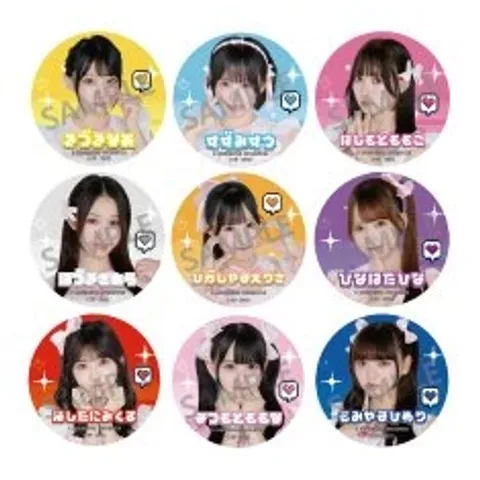
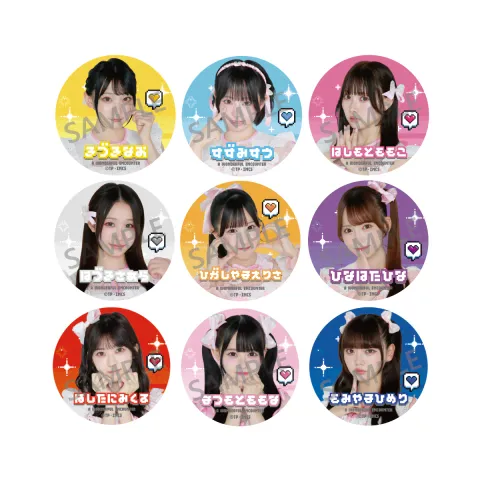
A Wonderful Encounter のステッカーと缶バッジの画像を差し替え

diff --git a/app/features/products/2025/2025-09-07_ステッカー「A Wonderful Encounter」.ts b/app/features/products/2025/2025-09-07_ステッカー「A Wonderful Encounter」.ts
@@ -9,8 +9,8 @@ export const AWonderfulEncounter_にゃでしこステッカー: RandomGoods = {
   category: "ステッカー",
   tradeText: TradeTextType.NameOnly,
   url: "/takaneko/goods/2025/2025-09-07_ランダムにゃでしこドットステッカー.webp",
-  width: 323,
-  height: 183,
+  width: 1200,
+  height: 1200,
   lineup: [
     { id: 1, name: "ルニャ・コーチ", description: "" },
     { id: 2, name: "すうにゃろう", description: "" },
@@ -25,15 +25,15 @@ export const AWonderfulEncounter_にゃでしこステッカー: RandomGoods = {
   ],
   withFrame: true,
   positions: [
-    { id: 1, x: 16, y: 16, width: 53, height: 68 },
-    { id: 2, x: 75, y: 16, width: 53, height: 68 },
-    { id: 3, x: 135, y: 16, width: 53, height: 68 },
-    { id: 4, x: 194, y: 16, width: 53, height: 68 },
-    { id: 5, x: 254, y: 16, width: 53, height: 68 },
-    { id: 6, x: 16, y: 100, width: 53, height: 68 },
-    { id: 7, x: 75, y: 100, width: 53, height: 68 },
-    { id: 8, x: 135, y: 100, width: 53, height: 68 },
-    { id: 9, x: 194, y: 100, width: 53, height: 68 },
-    { id: 10, x: 254, y: 100, width: 53, height: 68 },
+    { id: 1, x: 176, y: 118, width: 257, height: 297 },
+    { id: 2, x: 469, y: 118, width: 257, height: 297 },
+    { id: 3, x: 775, y: 118, width: 257, height: 297 },
+    { id: 4, x: 35, y: 462, width: 257, height: 297 },
+    { id: 5, x: 324, y: 462, width: 257, height: 297 },
+    { id: 6, x: 613, y: 462, width: 257, height: 297 },
+    { id: 7, x: 902, y: 462, width: 257, height: 297 },
+    { id: 8, x: 176, y: 803, width: 257, height: 297 },
+    { id: 9, x: 469, y: 803, width: 257, height: 297 },
+    { id: 10, x: 775, y: 803, width: 257, height: 297 },
   ],
 };

diff --git a/app/features/products/2025/2025-09-07_缶バッジ「A Wonderful Encounter」.ts b/app/features/products/2025/2025-09-07_缶バッジ「A Wonderful Encounter」.ts
@@ -9,8 +9,8 @@ export const AWonderfulEncounter_缶バッジ: RandomGoods = {
   category: "缶バッジ",
   tradeText: TradeTextType.NameOnly,
   url: "/takaneko/goods/2025/2025-09-07_缶バッジ「A Wonderful Encounter」.webp",
-  width: 235,
-  height: 235,
+  width: 1200,
+  height: 1200,
   lineup: [
     { id: 1, name: "城月菜央", description: "" },
     { id: 2, name: "涼海すう", description: "" },
@@ -24,14 +24,14 @@ export const AWonderfulEncounter_缶バッジ: RandomGoods = {
   ],
   withFrame: true,
   positions: [
-    { id: 1, x: 14, y: 14, width: 68, height: 68 },
-    { id: 2, x: 83, y: 14, width: 68, height: 68 },
-    { id: 3, x: 153, y: 14, width: 68, height: 68 },
-    { id: 4, x: 14, y: 83, width: 68, height: 68 },
-    { id: 5, x: 83, y: 83, width: 68, height: 68 },
-    { id: 6, x: 153, y: 83, width: 68, height: 68 },
-    { id: 7, x: 14, y: 152, width: 68, height: 68 },
-    { id: 8, x: 83, y: 152, width: 68, height: 68 },
-    { id: 9, x: 153, y: 152, width: 68, height: 68 },
+    { id: 1, x: 136, y: 135, width: 305, height: 305 },
+    { id: 2, x: 452, y: 138, width: 305, height: 305 },
+    { id: 3, x: 770, y: 136, width: 305, height: 305 },
+    { id: 4, x: 134, y: 449, width: 305, height: 305 },
+    { id: 5, x: 448, y: 450, width: 305, height: 305 },
+    { id: 6, x: 768, y: 449, width: 305, height: 305 },
+    { id: 7, x: 129, y: 765, width: 299, height: 299 },
+    { id: 8, x: 451, y: 769, width: 299, height: 299 },
+    { id: 9, x: 772, y: 766, width: 299, height: 299 },
   ],
 };
